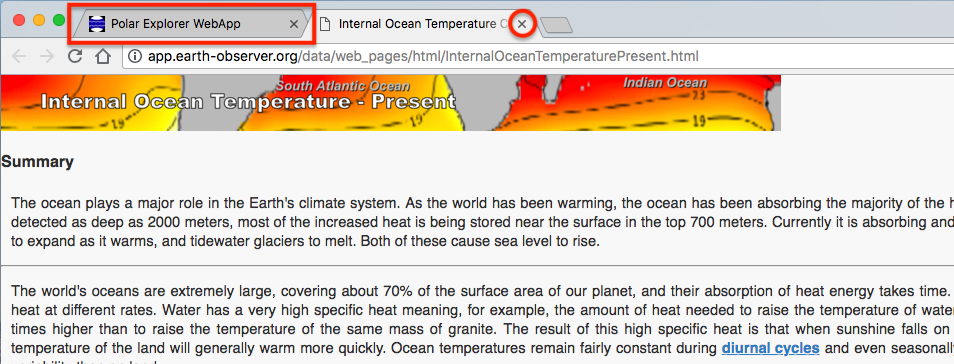
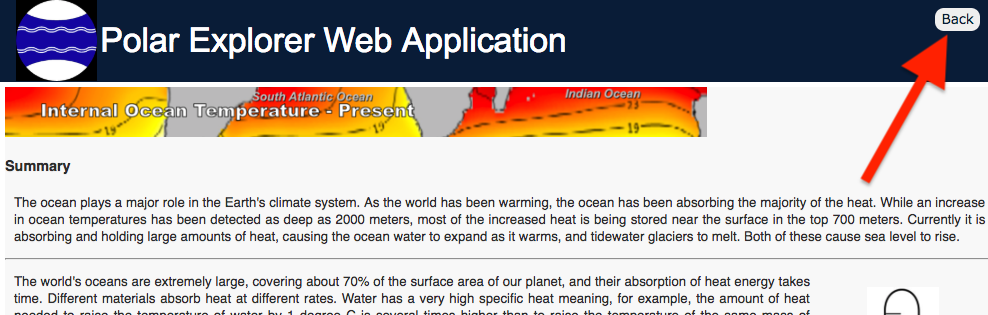
update tutorial

diff --git a/tutorial.html b/tutorial.html
@@ -64,18 +64,19 @@
             <td>
               <h2>Moving</h2>
               <img src="img/pan.png" alt="Moving the map" width="90%">
-              <p>Left click and drag the mouse to move around the map.</p>
+              <p>Left click and drag the mouse to move around the map.  If you are using a touch-sensitive screen, you can swipe back and forth with your finger to move the map.</p>
             </td>
             <td>
               <h2>Zooming</h2>
               <img src="img/zoom.png" alt="Zooming the map" width="80%">
-              <p>Use the + and - buttons in the top right corner to zoom in and out. Alternativley, you can use your mouse wheel or trackpad.</p>
+              <p>Use the + and - buttons in the top right corner to zoom in and out. Alternativley, you can use your mouse wheel or trackpad.  If you are using a touch-sensitive screen, place two fingers on the screen and move them away from each other to zoom in.  Do the inverse to zoom out.</p>
             </td>
           </tr>
         </table>
         <div>
           <h2>Parts Of The Map</h2>
           <img src="img/parts.png" alt="Parts of the map" width="80%">
+          <p>Note: the legend will not be displayed on smaller screens, such as on smart phones.
         </div>
       </div>
 
@@ -98,7 +99,7 @@
                   <li>Topics: Each Topic has its own map, info page, and 'about' with audio.</li>
                 </ul>
               </p>
-              <p>You can move the menu window by holding down the left mouse button over the header at the top and dragging it to a new location.</p>
+              <p>You can move the menu window by holding down the left mouse button over the header at the top and dragging it to a new location.  If you have a touch-sensitive screen, you can drag the menu window to a new location using your finger.  Note: You cannot move the menu if you are using a smart phone.</p>
             </td>
           </tr>
           <tr>
@@ -106,7 +107,8 @@
               <h2>3</h2>
               <img src="img/about.png" alt="Description window" width="60%">
               <p>Read the short description as an introduction to each topic's map. Select the 1 minute 'Audio' for more information. Click 'Silent' to stop the audio. Clicking 'Close' will close the description window.</p>
-              <p>You can move the description window by  holding down the left mouse button over the header at the top and dragging it to a new location.</p>
+              <p>You can move the description window by holding down the left mouse button over the header at the top and dragging it to a new location.  If you have a touch-sensitive screen, you can drag the description menu window to a new location using your finger.</p>
+              <p>If you are using a smart phone, clicking 'Audio' will close the description window and display the map, whilst the audio is playing.  Clicking 'Silent' will close the description window and display the map, without the audio playing.  Clicking 'Cancel' will close the description window and return you to the menu, without displaying the map.  Note: You cannot move the description window if you are using a smart phone.</p>
             </td>
             <td>
               <h2>4</h2>
@@ -144,7 +146,7 @@
             <td>
               <h2>Exiting A Webpage</h2>
               <img src="img/exiting_info_page.png" alt="Exiting information page" width="80%">
-              <p>Once you have finished using an information page, you can return to the main Polar Explorer window by clicking on its tab in your browser, or click the X to close the information page tab (tabs will look different on different browsers).</p>
+              <p>Once you have finished using an information page, you can return to the main Polar Explorer window by clicking on its tab in your browser, or you can close the information page by clicking the back button in the top right hand corner.</p>
             </td>
             <td>
               <h2>Congratulations!</h2>

diff --git a/main.js b/main.js
@@ -772,13 +772,11 @@ function dragElement(elmnt, dragOnAll) {
 
   function elementTouchDrag(e) {
     var touch = e.touches[0];
-    console.log(touch)
     // calculate the new cursor position:
     pos1 = pos3 - touch.clientX;
     pos2 = pos4 - touch.clientY;
     pos3 = touch.clientX;
     pos4 = touch.clientY;
-    // alert("pos1: " + pos1 + " pos2: " + pos2)
     // set the element's new position:
     elmnt.style.top = (elmnt.offsetTop - pos2) + "px";
     elmnt.style.left = (elmnt.offsetLeft - pos1) + "px";
@@ -790,5 +788,11 @@ function dragElement(elmnt, dragOnAll) {
     document.onmousemove = null;
     document.ontouchend = null;
     document.ontouchmove = null;
+
+    // convert positioning from pixels to % so that elements can be reposition if the orientation of a tablet is changed
+    var w = $(document).width();
+    var h = $(document).height();
+    elmnt.style.top = (parseInt(elmnt.style.top.replace("px", "")) / h * 100) + "%";
+    elmnt.style.left = (parseInt(elmnt.style.left.replace("px", "")) / w * 100) + "%";
   }
 }
